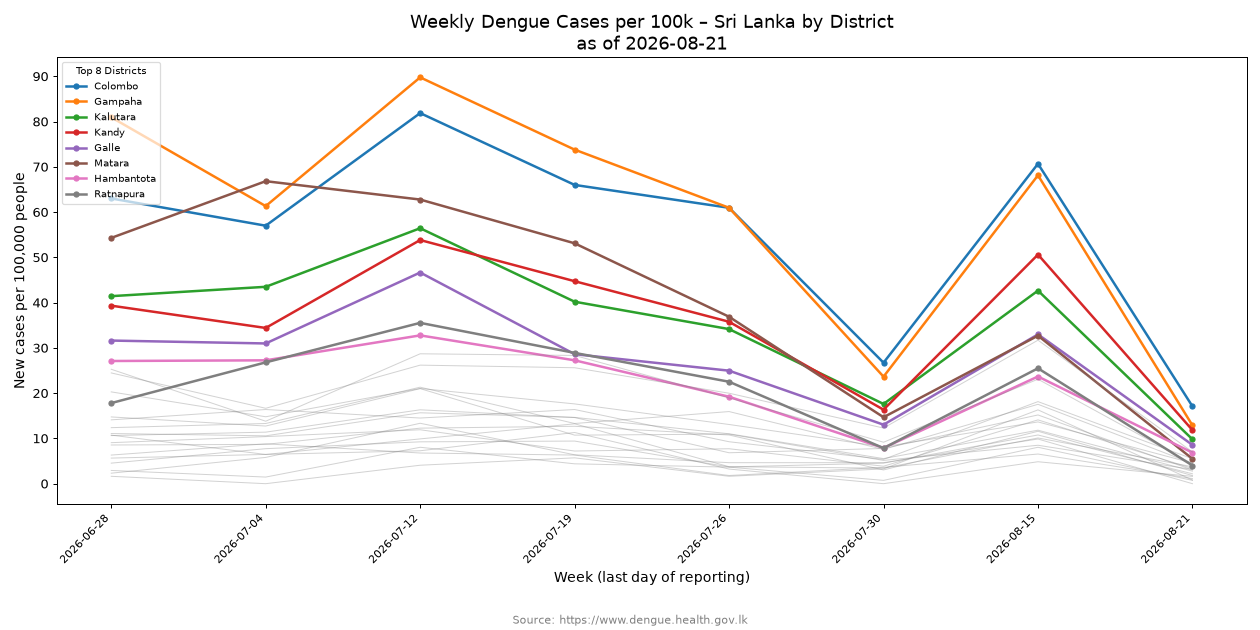
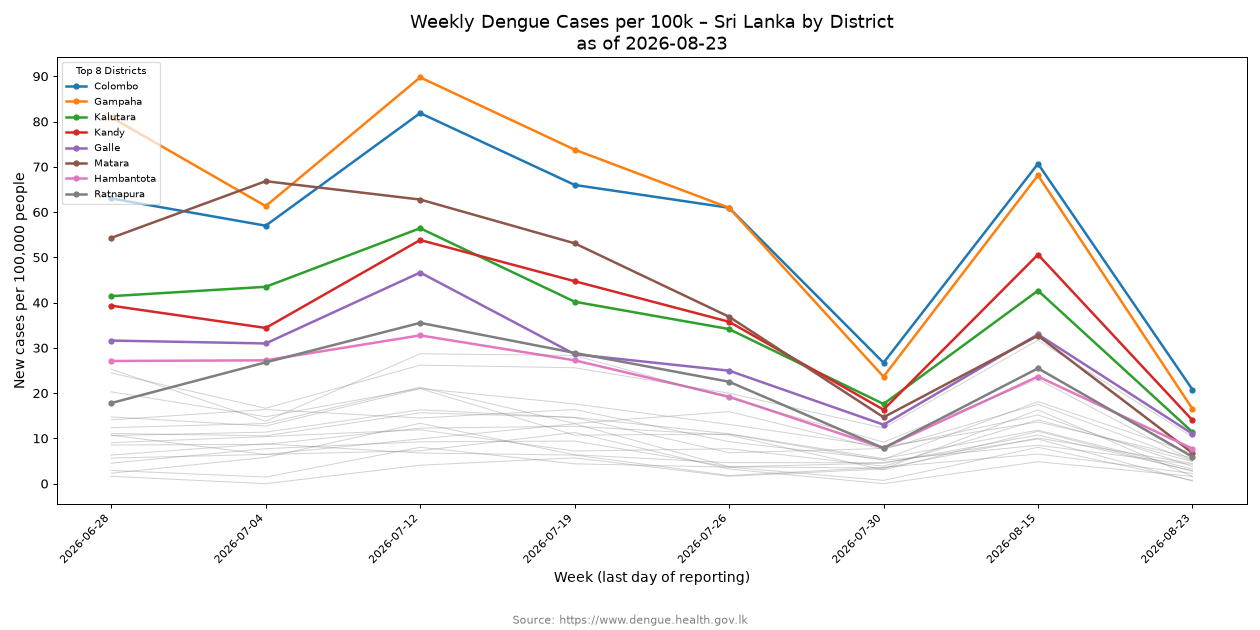
🤖 [pipeline.yml] 2026-08-24-0449

Changed region(s): [[0.8357, 0.3016, 0.9595, 0.754], [0.8048, 0.2714, 0.8357, 0.3016]]

diff --git a/README.md b/README.md
@@ -191,6 +191,7 @@ As of 2026-08-16
 
 ### [National Dengue Control Unit - Daily Update](data/NDCUDaily)
 
+- [2026-08-23](data/NDCUDaily/2026/2026-08/2026-08-23)
 - [2026-08-21](data/NDCUDaily/2026/2026-08/2026-08-21)
 - [2026-08-15](data/NDCUDaily/2026/2026-08/2026-08-15)
 - [2026-08-13](data/NDCUDaily/2026/2026-08/2026-08-13)
